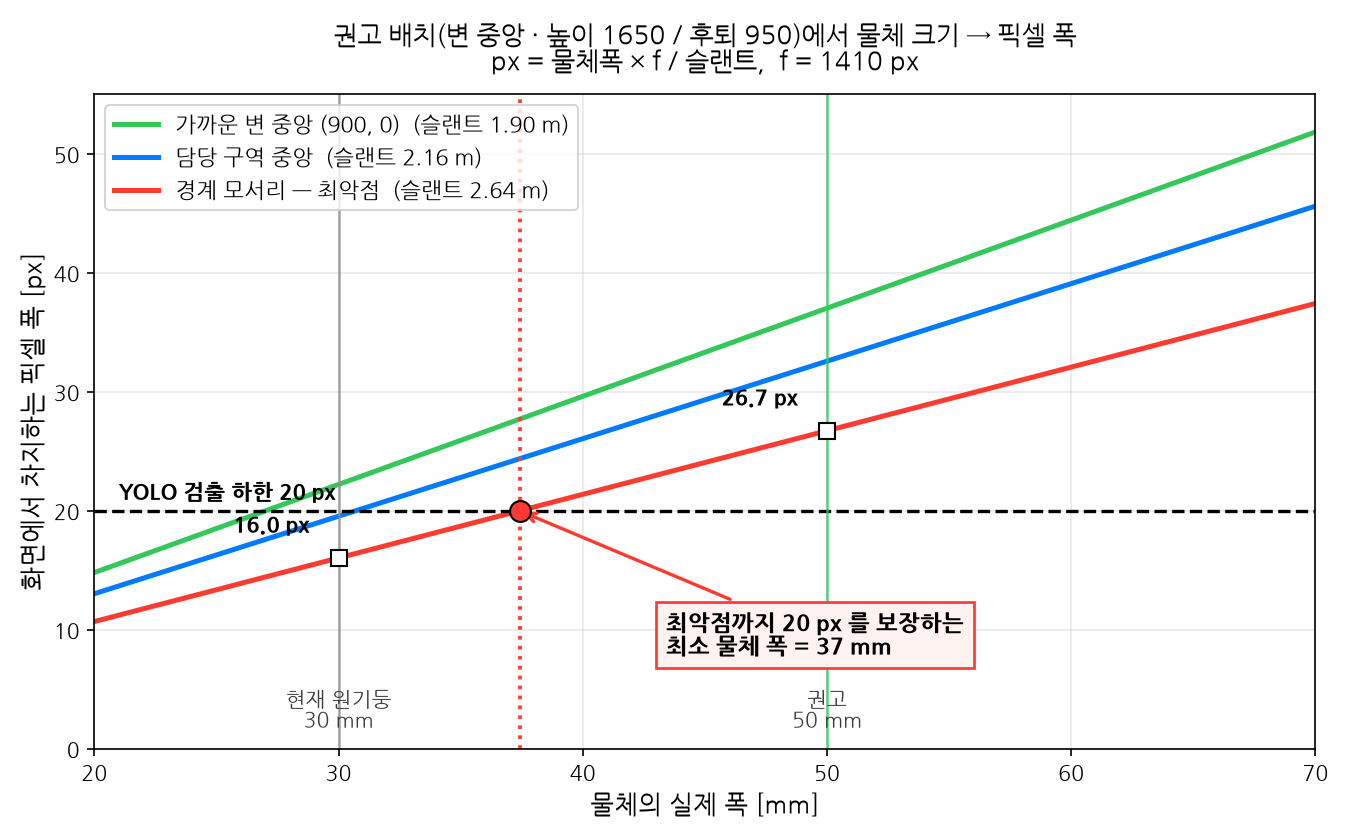
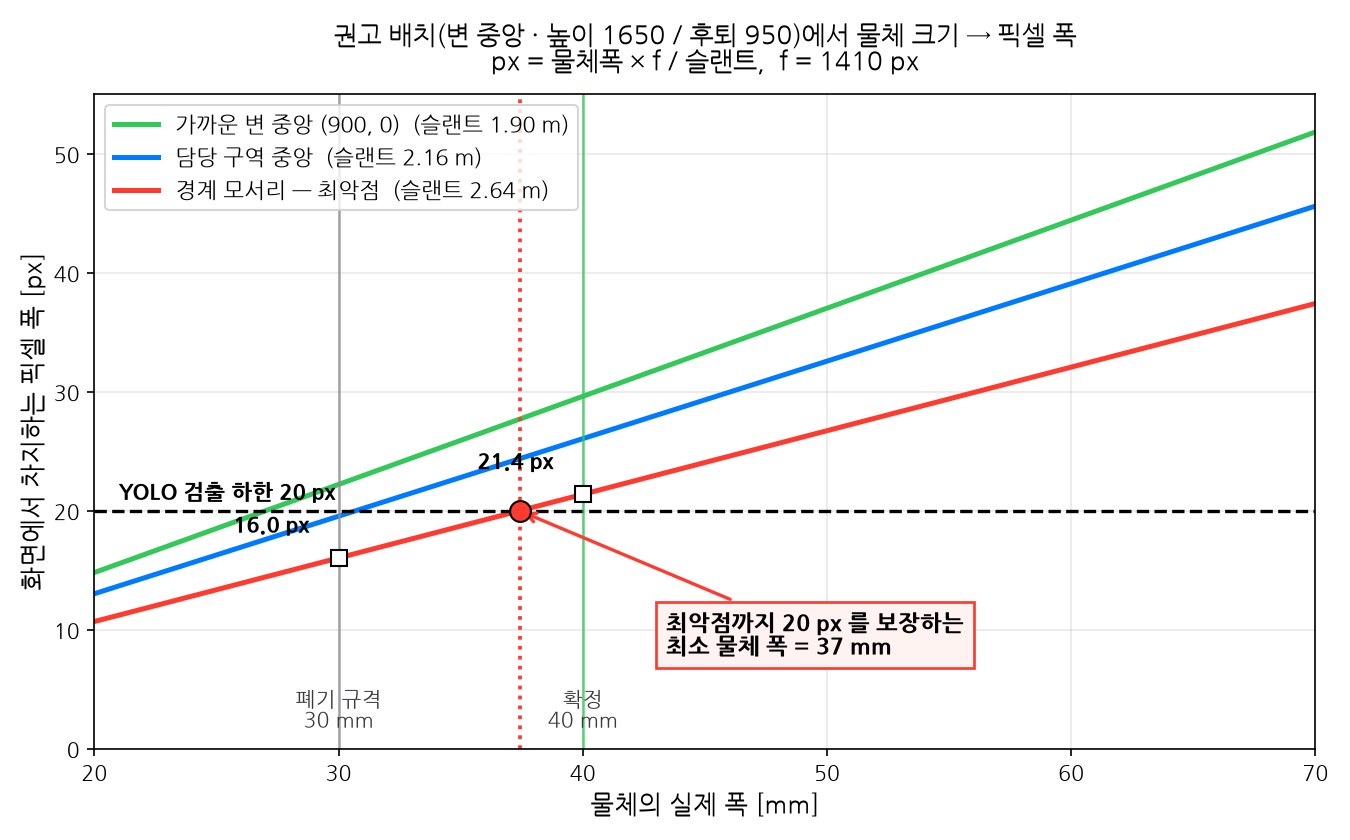
fix(tools/a2): 확정 피치 기준으로 판정하고 문서 수치를 실제 리그에 맞춘다
리뷰 지적대로 duty_points 가 확정 피치 44.1° 에서 성립하지 않았다.
COVER_START_MM 212 는 "전폭이 겨우 들어오는 지점" 자체여서 판정이 자기
자신을 통과 조건으로 삼는 꼴이었고, max|u| 가 640.03 으로 이미 프레임 밖이다.
fits() 가 True 를 준 것은 best_pitch 가 44.1° 가 아니라 48.2° 를 골랐기 때문이다.

- COVER_START_MM 212 -> 256 = blind_band(1650, 950). 울타리에 가려 어차피
  안 찍히는 구간이라 프레임에 넣으라고 요구할 이유가 없다. 실효 커버 0.26 m 유지
- frame_extent() 추가 · fits(pitch_deg=) 선택 인자. 확정 리그는 PITCH_DEG 로,
  fig1 전수 탐색은 칸마다 다른 최적 피치로 판정한다
- 물체 폭 50 -> 40 mm 확정 (#180). 표 헤더 · fig2 라벨 · MIN_OBJECT_MM 주석
- WALL_H_MM 주석의 "탑뷰1/탑뷰2" 는 카메라가 아니라 울타리 높이 두 경우다
- README_A2 §4 가 머리글만 950 이고 본문은 후퇴 1400 값이었다 — 표 5행 ·
  프레이밍 591/176 -> 630/242 · 최소 후퇴 1150 -> 865 · CAUTION 2건 · NOTE 정정
- fig1 최대치 17.4 -> 17.7 px, FOV 만족 조합 2103 -> 2547

확정 리그 출력: max|u| 630/640 · sigma_max 2.78 · 40 mm 21.4 px · 가림 256 mm
좌우 설치 허용 오차는 ±14 mm 다 — 후퇴 1400 시절의 ±50 mm 여유는 없다.

diff --git a/tools/a2/README_A2.md b/tools/a2/README_A2.md
@@ -200,35 +200,46 @@ C270 ×2 · **마주보는 두 변 중앙 · 높이 1650 mm · 후퇴 950 mm · 
 
 > [!IMPORTANT]
 > **높이 1650 은 삼각대 최대치라 고정값이다.** 조절할 수 있는 건 후퇴뿐이고,
-> 후퇴를 줄이면 가로가 잘린다(최소 1150 mm). 1400 은 가로에 7.6% 여유를 둔 값이다.
+> 후퇴를 줄이면 가로가 잘린다(최소 865 mm). 950 은 가로에 9.8% 여유를 둔 값이다.
+> 단, 이 하한은 **가까운 벽 앞 0.26 m 를 포기한다는 전제** 위에 서 있다 —
+> 그 앞은 울타리에 가려 어차피 안 찍히고, 마주보는 카메라가 덮는다.
 
 `σmax` 는 이미지→월드 사상 야코비안의 **최대 특이값**, 즉 클릭 1 px 이 최악 방향으로
 어긋났을 때의 월드 오차다. 괄호 안은 해석 근사 `slant / (f · sin θ)` 다.
 
-| 지점 | 슬랜트 | 고도각 | **σmax (mm/px)** | 3 px 최악 | 30 mm 물체 | 50 mm 물체 |
-|---|---|---|---|---|---|---|
-| 가까운 변 중앙 | 2.16 m | 49.7° | **1.98** (2.01) | 5.9 mm | 19.6 px | 32.7 px |
-| 가까운 변 모서리 | 2.34 m | 44.8° | **2.16** (2.36) | 6.5 mm | 18.1 px | 30.2 px |
-| 담당 구역 중앙 | 2.48 m | 41.7° | **2.64** (2.64) | 7.9 mm | 17.1 px | 28.5 px |
-| 경계 중앙 | 2.83 m | 35.7° | **3.39** (3.44) | 10.2 mm | 15.0 px | 25.0 px |
-| **경계 모서리 (최악점)** | **2.97 m** | **33.7°** | **3.52** (3.79) | **10.6 mm** | **14.3 px** | **23.8 px** |
+표는 **커버 시작선(벽에서 0.26 m)부터** 잡는다. 그보다 앞은 울타리에 가리고 프레임
+아래로도 잘려(`v = 403 / 360`) 애초에 안 찍히므로, 거기 수치를 올리면 없는 성능을
+보고하게 된다. 그 구간은 마주보는 카메라가 덮는다.
 
-프레이밍은 `max|u| = 591 / 640`, `max|v| = 176 / 360` 이다. 가로가 빠듯한 쪽인데,
+| 지점 | 슬랜트 | 고도각 | **σmax (mm/px)** | 3 px 최악 | 30 mm 물체 | 40 mm 물체 |
+|---|---|---|---|---|---|---|
+| 커버 시작 변 중앙 | 2.04 m | 53.8° | **1.74** (1.80) | 5.2 mm | 20.7 px | 27.6 px |
+| 커버 시작 모서리 | 2.23 m | 47.6° | **1.93** (2.14) | 5.8 mm | 18.9 px | 25.3 px |
+| 담당 구역 중앙 | 2.16 m | 49.7° | **1.99** (2.01) | 6.0 mm | 19.5 px | 26.1 px |
+| 경계 중앙 | 2.48 m | 41.7° | **2.64** (2.64) | 7.9 mm | 17.1 px | 22.8 px |
+| **경계 모서리 (최악점)** | **2.64 m** | **38.7°** | **2.78** (2.99) | **8.3 mm** | **16.0 px** | **21.4 px** |
+
+프레이밍은 `max|u| = 630 / 640`, `max|v| = 242 / 360` 이다. 가로가 빠듯한 쪽인데,
 **카메라가 폭 1800 mm 를 통째로 담아야 하기 때문**이다. 이게 이 배치의 지배 제약이다.
 
 > [!CAUTION]
-> **좌우를 정확히 변의 중앙(x = 900)에 두어야 한다.** 50 mm 어긋나면 `max|u|` 가
-> 591 → 624 로 뛰고, 100 mm 면 657 로 **프레임을 넘는다.** 높이보다 이쪽이 예민하다.
+> **좌우를 정확히 변의 중앙(x = 900)에 두어야 한다.** 후퇴 950 에서 허용 오차는
+> **±14 mm 뿐이다** — 25 mm 어긋나면 `max|u|` 가 630 → 648, 50 mm 면 665,
+> 100 mm 면 700 으로 **프레임을 넘는다.** 높이보다 이쪽이 훨씬 예민하다.
+> 후퇴 1400 시절의 여유(50 mm 까지 무사)는 더 이상 없다. 줄자로 재서 세운다.
 
 > [!CAUTION]
-> **30 mm 물체는 최악점에서 14.3 px 로, 검출 하한 20 px 에 못 미친다.**
-> 배치로는 못 고친다 — 전수 탐색해도 최대 17.4 px 다(`fig1_placement_sweep.png`).
-> 20 px 을 보장하는 최소 폭은 **42 mm**, 여유를 보아 **50 mm** 를 권고한다(23.8 px).
-> → #149 D1
+> **30 mm 물체는 최악점에서 16.0 px 로, 검출 하한 20 px 에 못 미친다.**
+> 배치로는 못 고친다 — 전수 탐색해도 최대 17.7 px 다(`fig1_placement_sweep.png`).
+> 20 px 을 보장하는 최소 폭은 **37 mm** 이고, **40 mm 로 확정**했다(21.4 px).
+> 상한은 그리퍼다 — 40 mm 를 넘으면 파지가 안 된다. 여유가 7% 뿐이니
+> 조명·모션블러로 유효 픽셀이 줄면 곧바로 하한이다. → #149 D1 · #180
 
 > [!NOTE]
-> 위치 정확도는 최악점 3 px 이 10.6 mm 로 기준 20 mm 안이지만 여유가 절반뿐이다.
-> 높이를 1900 으로 올릴 수 있으면 σmax 가 3.52 → 2.59 로 떨어진다(#149 D3).
+> 위치 정확도는 최악점 3 px 이 **8.3 mm** 로 기준 20 mm 안에 넉넉히 들어온다.
+> 후퇴를 1400 → 950 으로 당기면서 슬랜트가 짧아진 덕이다.
+> 높이 1900 안(#149 D3)은 이제 이득이 없다 — σmax 는 2.78 → 2.64 로 조금 나아지지만
+> 40 mm 물체가 21.4 → **20.4 px** 로 떨어져 검출 하한에 붙는다. 1650 을 유지한다.
 
 > [!NOTE]
 > **왜 두 대인가.** 한 대로 1.8 × 1.8 전체를 담는 것 자체는 가능하다. 그러나 그때 먼 모서리는
@@ -262,8 +273,8 @@ Pi 5 에서는 **공식 5 V/5 A 어댑터일 때만** USB 주변장치에 1.6 A 
 
 | 그림 | 무엇을 보이는가 |
 |---|---|
-| ![배치 전수 탐색](../../docs/assets/vision/fig1_placement_sweep.png) | 30 mm 는 어느 배치에서도 20 px 에 못 닿는다 — FOV 를 만족하는 **2103 조합** 중 최대 17.4 px. 주황 점선이 가벽 가림 띠다 |
-| ![물체 크기](../../docs/assets/vision/fig2_object_size.png) | 확정 배치에서 물체 폭 42 mm 가 검출 하한과 만나는 지점 |
+| ![배치 전수 탐색](../../docs/assets/vision/fig1_placement_sweep.png) | 30 mm 는 어느 배치에서도 20 px 에 못 닿는다 — FOV 를 만족하는 **2547 조합** 중 최대 17.7 px. 주황 점선이 가벽 가림 띠다 |
+| ![물체 크기](../../docs/assets/vision/fig2_object_size.png) | 확정 배치에서 물체 폭 37 mm 가 검출 하한과 만나는 지점 (확정 규격은 40 mm) |
 | ![배치 비교](../../docs/assets/vision/fig3_layout_compare.png) | 모서리 배치와 변 중앙 배치의 차이 |
 
 읽는 법 셋을 짚어 둔다.
@@ -279,12 +290,14 @@ Pi 5 에서는 **공식 5 V/5 A 어댑터일 때만** USB 주변장치에 1.6 A 
 **③ 가벽 가림은 제약이 아니라 비용이다.**
 탐색에서 거르지 않고 등고선으로 겹쳐 그린다. 낮게 달수록 픽셀은 좋아지고 가림은 나빠진다.
 하드 제약은 FOV 뿐이다 — 예전에 가림 204 mm 를 필터로 걸었는데, 그 값은 폐기된 모서리
-배치에서 우연히 나온 수치였고 확정 배치(377 mm)를 오히려 제외해 버렸다.
+배치에서 우연히 나온 수치였고 확정 배치(256 mm)를 오히려 제외해 버렸다.
 
 **④ 높이 1650 은 삼각대 한계라 고정이고, 그 대가가 가림이다.**
-가벽 가림 띠 377 mm · 상자(0.4 m) 뒤 그림자 최대 790 mm 다.
-거치를 1900 mm 까지 올릴 수 있으면 각각 203 · 537 mm 로 줄고 σmax 도 3.52 → 2.59 가 된다.
-대신 하향각이 42.8° → 55.5° 라 **삼각대 헤드가 그만큼 꺾여야 한다**(#149 D3).
+가벽 가림 띠는 확정 리그에서 **256 mm** 다. 상자 뒤 그림자는 실물 치수가 나왔으므로
+배치도 Rev.II 를 따른다 — **웹캠 1 쪽 0.35 m · 웹캠 2 쪽 0.18 m**(#180).
+거치를 1900 mm 로 올리면 가림 띠는 203 mm 로 줄고 σmax 도 2.78 → 2.64 가 되지만,
+**40 mm 물체가 21.4 → 20.4 px 로 떨어져** 검출 하한에 붙는다. 후퇴를 950 으로 당긴
+뒤로는 이득이 없는 맞바꿈이라 1650 을 유지한다(#149 D3).
 
 > [!NOTE]
 > **재현성.** 표준출력 수치는 결정적이라 어디서 돌려도 같다 — **근거로 삼을 것은 그쪽**이다.
